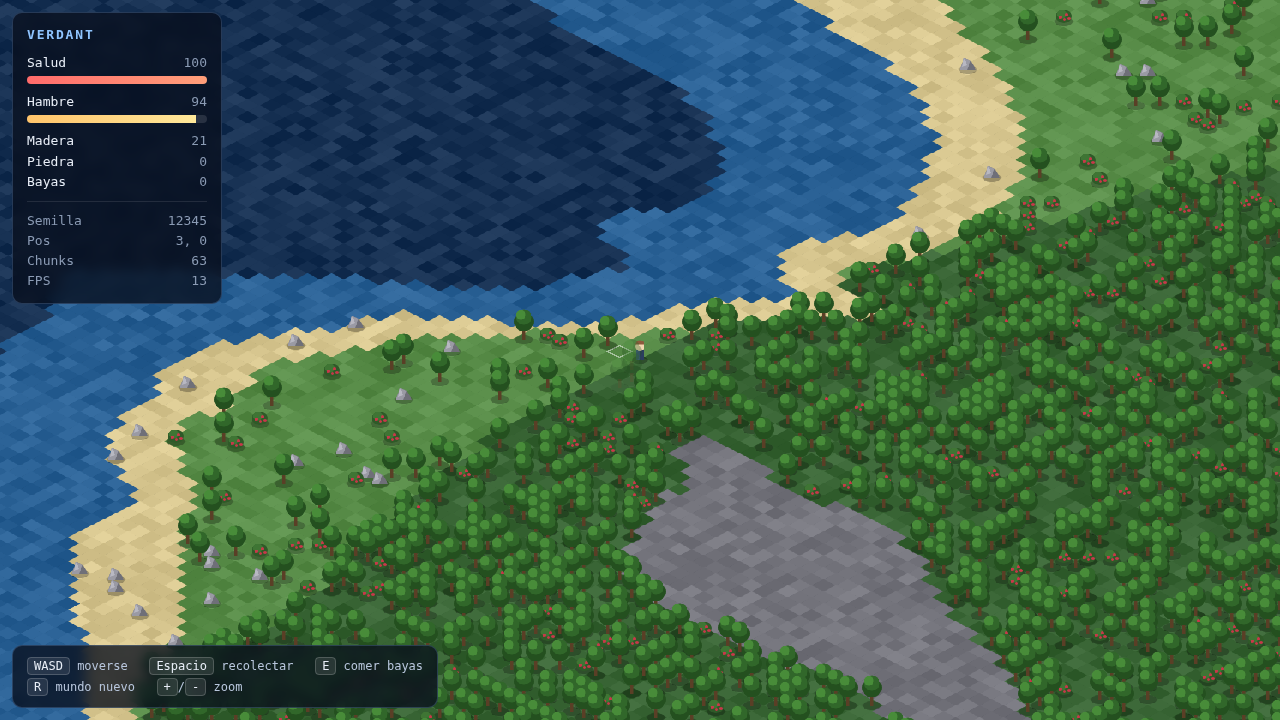
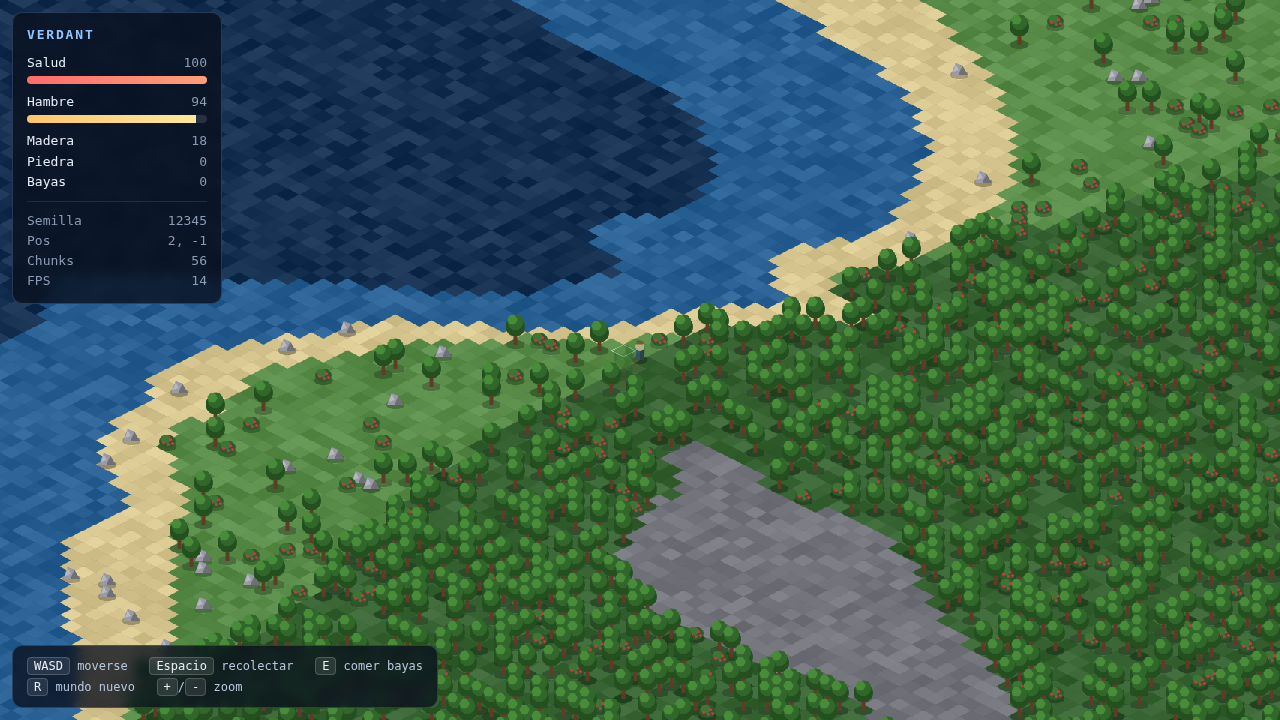
Average the FPS readout over a full second
The counter already averaged, but over 0.1 s windows — roughly six
frames at 60 Hz, so a single slow frame swung the number by tens of
units and made it unreadable. The measurement window is now a full
second while the rest of the HUD keeps refreshing at 10 Hz, so the bars
stay responsive.

Also records the slowest frame of each second and exposes it alongside
the average on the debug probe. Stutter is what actually matters and an
average hides it; that figure is deliberately measured before the
spiral-of-death clamp, which would otherwise cap away the very spike
worth seeing.

Claude-Session: https://claude.ai/code/session_01XutUh4eVSdN6S6kRiv2aM4

diff --git a/packages/client/src/main.ts b/packages/client/src/main.ts
@@ -92,18 +92,38 @@ async function main(): Promise<void> {
 
   let accumulator = 0;
   let last = performance.now();
-  let fpsAccum = 0;
-  let fpsFrames = 0;
   let hudTimer = 0;
+
+  // Medicion de FPS sobre una ventana de UN SEGUNDO.
+  //
+  // Antes se promediaba cada 0.1 s: a 60 Hz son apenas seis frames, asi que un
+  // solo frame lento hacia saltar el numero decenas de unidades y era ilegible.
+  // El resto del HUD se sigue refrescando a 10 Hz para que las barras respondan.
+  let fpsWindow = 0;
+  let fpsFrames = 0;
+  let worstFrame = 0;
+  let fps = 0;
+  let worstFrameMs = 0;
 
   renderer.app.ticker.add(() => {
     const now = performance.now();
-    let frame = (now - last) / 1000;
+    const rawFrame = (now - last) / 1000;
     last = now;
-    if (frame > MAX_FRAME_SECONDS) frame = MAX_FRAME_SECONDS;
+    // El peor frame se mide SIN recortar: recortarlo ocultaria justo el tiron
+    // que interesa detectar.
+    if (rawFrame > worstFrame) worstFrame = rawFrame;
 
-    fpsAccum += frame;
+    const frame = Math.min(rawFrame, MAX_FRAME_SECONDS);
+
+    fpsWindow += frame;
     fpsFrames++;
+    if (fpsWindow >= 1) {
+      fps = fpsFrames / fpsWindow;
+      worstFrameMs = worstFrame * 1000;
+      fpsWindow = 0;
+      fpsFrames = 0;
+      worstFrame = 0;
+    }
 
     accumulator += frame;
     while (accumulator >= TICK_DT) {
@@ -117,10 +137,8 @@ async function main(): Promise<void> {
 
     hudTimer += frame;
     if (hudTimer >= 0.1) {
-      updateHud(state, fpsFrames / Math.max(fpsAccum, 1e-6));
+      updateHud(state, fps);
       hudTimer = 0;
-      fpsAccum = 0;
-      fpsFrames = 0;
     }
   });
 
@@ -134,6 +152,9 @@ async function main(): Promise<void> {
       // de verdad, en vez de asumirlo mirando pixeles.
       tilesOnScreen: renderer.tilesVisible,
       objects: renderer.objectCount,
+      fps,
+      /** Frame mas lento del ultimo segundo: es lo que delata un tiron. */
+      worstFrameMs,
       chunks: state.world.loadedChunkCount,
       x: state.entities.x[state.playerId],
       y: state.entities.y[state.playerId],
@@ -161,7 +182,8 @@ function updateHud(state: GameState, fps: number): void {
   el.seed.textContent = String(state.world.seed);
   el.pos.textContent = `${Math.floor(entities.x[playerId])}, ${Math.floor(entities.y[playerId])}`;
   el.chunks.textContent = String(state.world.loadedChunkCount);
-  el.fps.textContent = String(Math.round(fps));
+  // Hasta que cierre la primera ventana de medicion no hay dato que mostrar.
+  el.fps.textContent = fps > 0 ? String(Math.round(fps)) : '—';
 
   el.dead.classList.toggle('show', entities.alive[playerId] === 0);
 }
